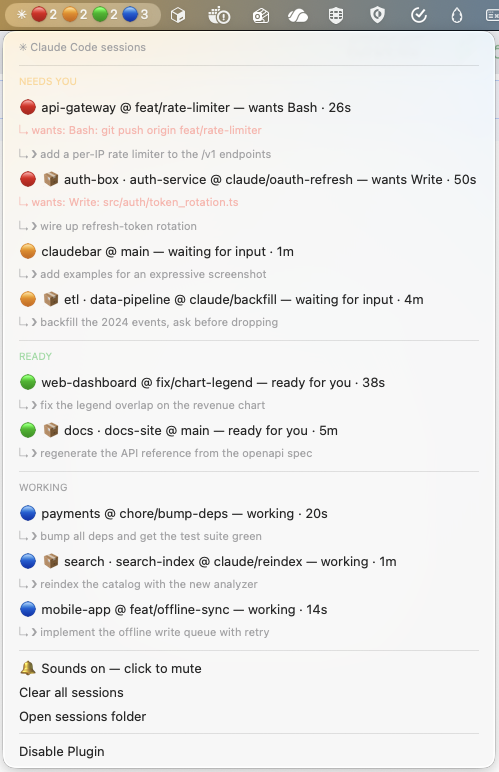
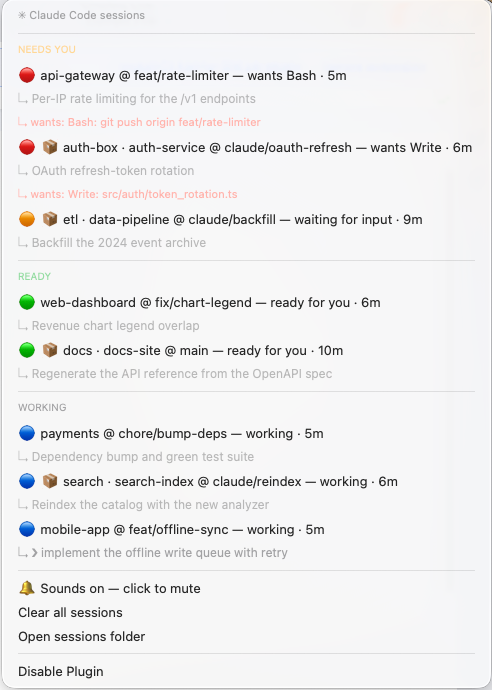
feat: show each session's /resume title in the menu bar

diff --git a/README.md b/README.md
@@ -8,11 +8,19 @@ Running several Claude sessions in parallel means losing track of which one
 needs you. This board fixes that — no popups, no context switching: the menu
 bar is the whole interface.
 
+![The claudebar menu bar item among other status items, reading a count per session state](assets/bar.png)
+
+*At rest it is one status item among the others: a `✳` and a count per state —
+permission, waiting, ready, working, left to right, zero counts hidden.*
+
 ![The claudebar dropdown showing host and sandbox sessions across all four states](assets/board.png)
 
-*Nine sessions across host and sandbox, grouped by state — the menu bar itself
-reads `✳ 🔴2 🟠2 🟢2 🔵3`. Reproduce this board for a screenshot with
-[`examples/demo-board.sh`](assets/demo-board.sh).*
+*Open it and every session is a row: state, repo `@` branch, how long it has
+sat there, and — underneath — what the session is about. That subtitle is the
+session's `/resume` title, or the last thing you asked for (`❯`) until Claude
+Code has written one. Sandbox sessions lead with 📦 and their box name; red
+rows spell out the command awaiting your approval. Seed this board yourself
+with [`examples/demo-board.sh`](examples/demo-board.sh).*
 
 ## Features
 
@@ -26,10 +34,14 @@ reads `✳ 🔴2 🟠2 🟢2 🔵3`. Reproduce this board for a screenshot with
   (`wants Bash`), and the full pending command (`↳ wants: Bash: git push
   origin main`) sits right under it. Decide whether it's rubber-stamp or
   worth switching, without leaving what you're doing.
-- 🏷 **Sessions show what you asked for** — the last prompt you gave a
-  session sits right under its row (`↳ ❯ now also run the integration
-  tests`), so parallel sessions on the same repo stay tellable-apart.
-  Harness-injected pseudo-prompts (task notifications) are filtered out.
+- 🏷 **Sessions show what they're about** — every row carries a subtitle
+  saying what the session *is*: its `/resume` title (`↳ Wire dry-run through
+  the deploy script`), lifted straight out of the transcript Claude Code
+  writes. Until one exists the last prompt you gave the session stands in
+  (`↳ ❯ now also run the integration tests`) — the `❯` tells you which you're
+  looking at. Either way parallel sessions on the same repo stay
+  tellable-apart. Harness-injected pseudo-prompts (task notifications) are
+  filtered out.
 - 🖱 **One-click focus** — clicking a session row focuses its IntelliJ
   project window via the JetBrains launcher (any of `idea`/`goland`/
   `pycharm`; terminal app as fallback). **⌥-click dismisses** a stale entry.
@@ -234,3 +246,39 @@ into a per-session context file, which is how permission rows can say what
 Claude wants to run. `UserPromptSubmit` stores your prompt in the same context
 file so every status record carries it. Repeated tool calls are deduped down
 to a context-file update (no record churn).
+
+### Session titles
+
+Every hook payload carries a `transcript_path` pointing at the JSONL Claude
+Code streams the conversation to, and Claude Code drops title records into it —
+the strings its `/resume` picker lists. The hook picks the newest one out of
+that file and parks it in the context file, where it becomes the row's
+subtitle. No title yet just means the row shows your last prompt instead.
+
+Two spellings are accepted, because the record changed shape between versions:
+
+| Claude Code | record                                |
+|-------------|---------------------------------------|
+| 2.1.x       | `{"type": "ai-title", "aiTitle": …}`  |
+| older       | `{"type": "summary", "summary": …}`   |
+
+Three properties this leans on, because the transcript format is Claude Code
+internal and gets no compatibility promise:
+
+- **Scans that back off.** `SessionStart` always scans — it happens once per
+  session and it's what makes a resumed session show its inherited title
+  right away. After that only `UserPromptSubmit` and `Stop` scan: while the
+  session has no title they scan every time, since Claude Code writes the
+  first one within the opening exchanges and a fresh row shouldn't sit on a
+  bare prompt waiting for a timer. Once a title exists they drop to once every
+  10 minutes — a long session would otherwise re-read a big transcript every
+  turn to re-find a string that hasn't moved. Set
+  `CLAUDE_NOTIFY_SUMMARY_TTL=<seconds>` to tighten or loosen that.
+- **Bounded reads.** Only a 200-line head and a 500-line tail are ever
+  scanned, and `tail` seeks from the end — a 100 MB+ transcript costs ~30 ms.
+  The plugin never opens a transcript at all; its 3 s refresh only reads the
+  status records, so transcript size cannot slow the menu down.
+- **Fail-silent parsing.** Malformed, truncated or reshaped records are
+  dropped rather than raised — a scan that finds nothing leaves the previous
+  title in place. If the format ever changes, rows quietly fall back to the
+  last prompt instead of the hook breaking your session.
